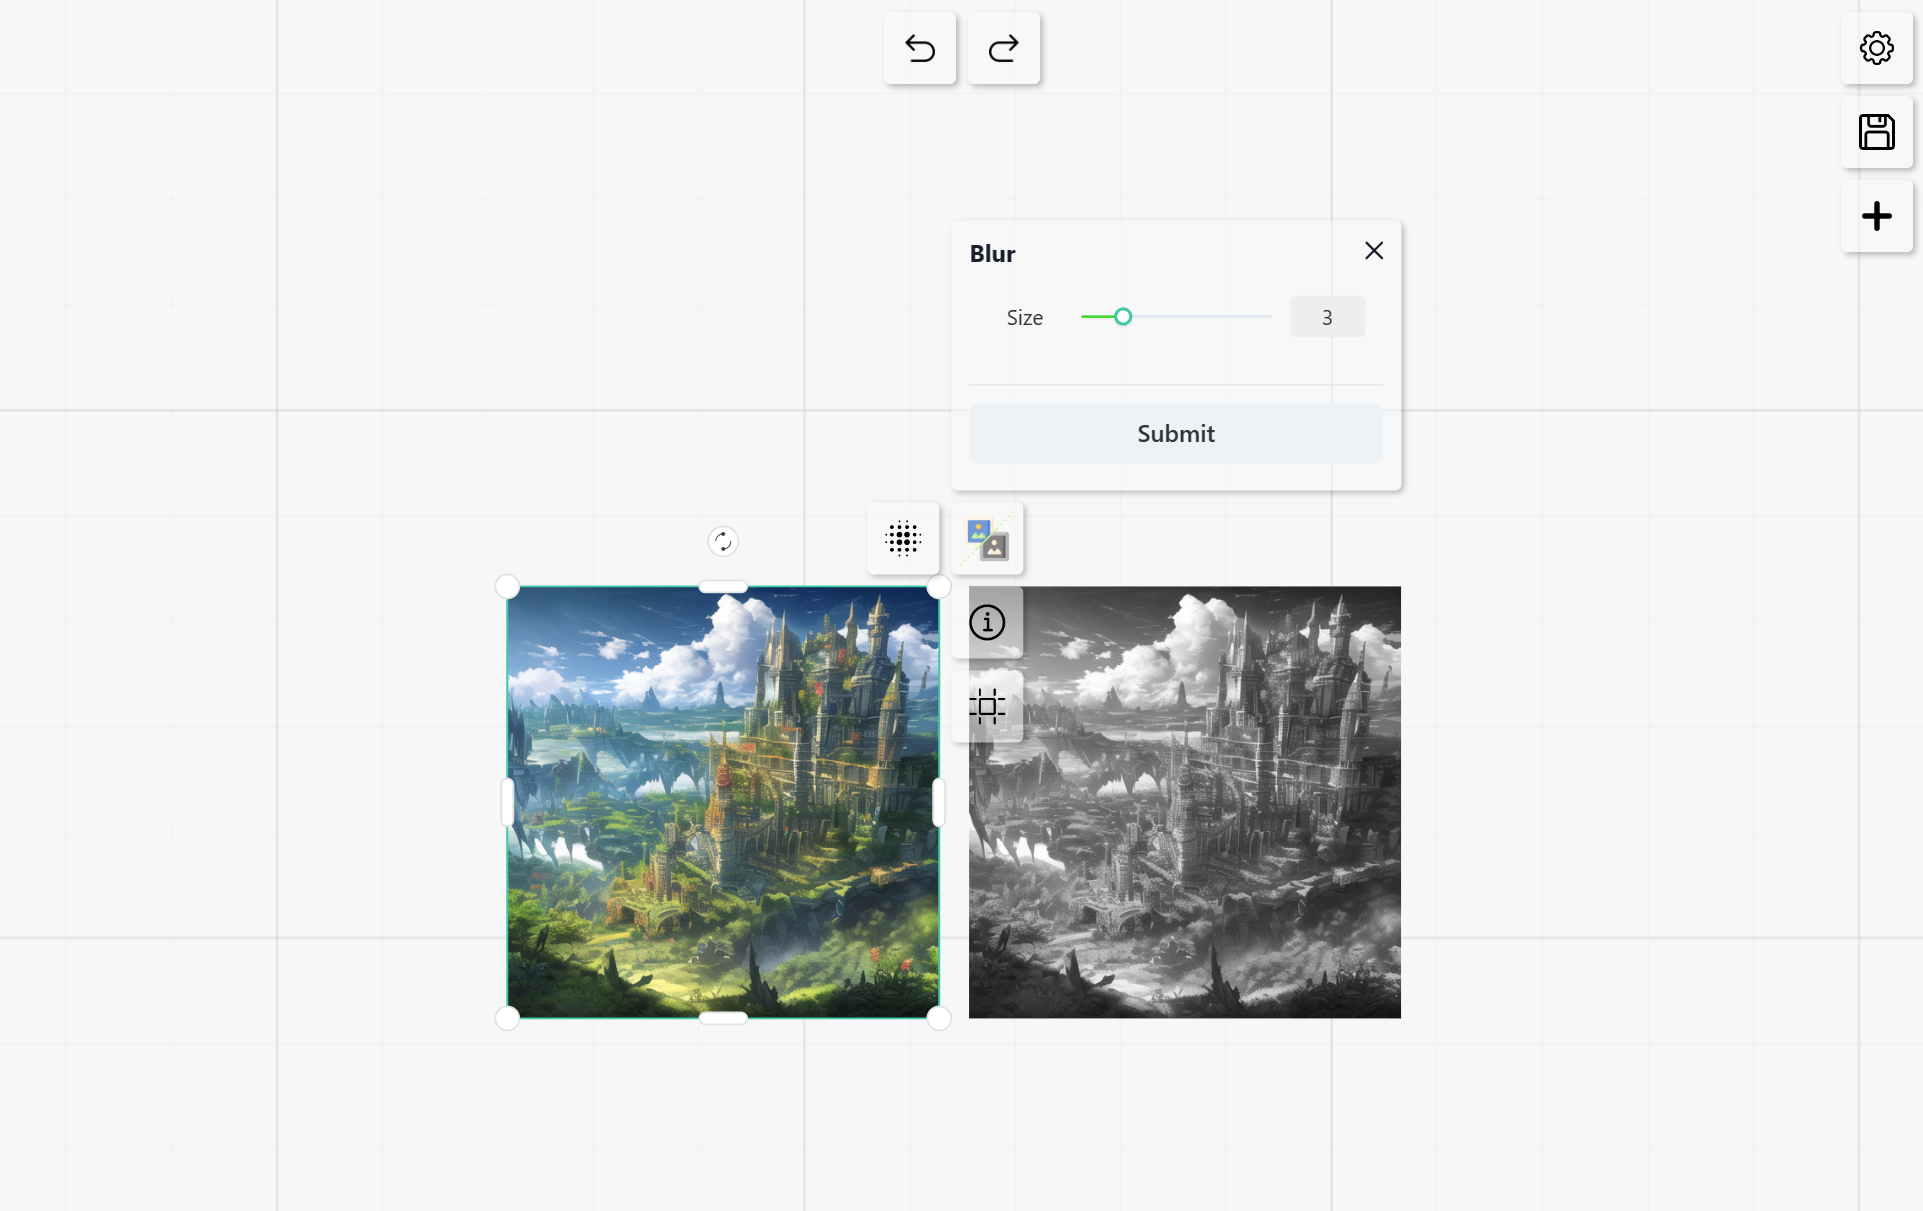
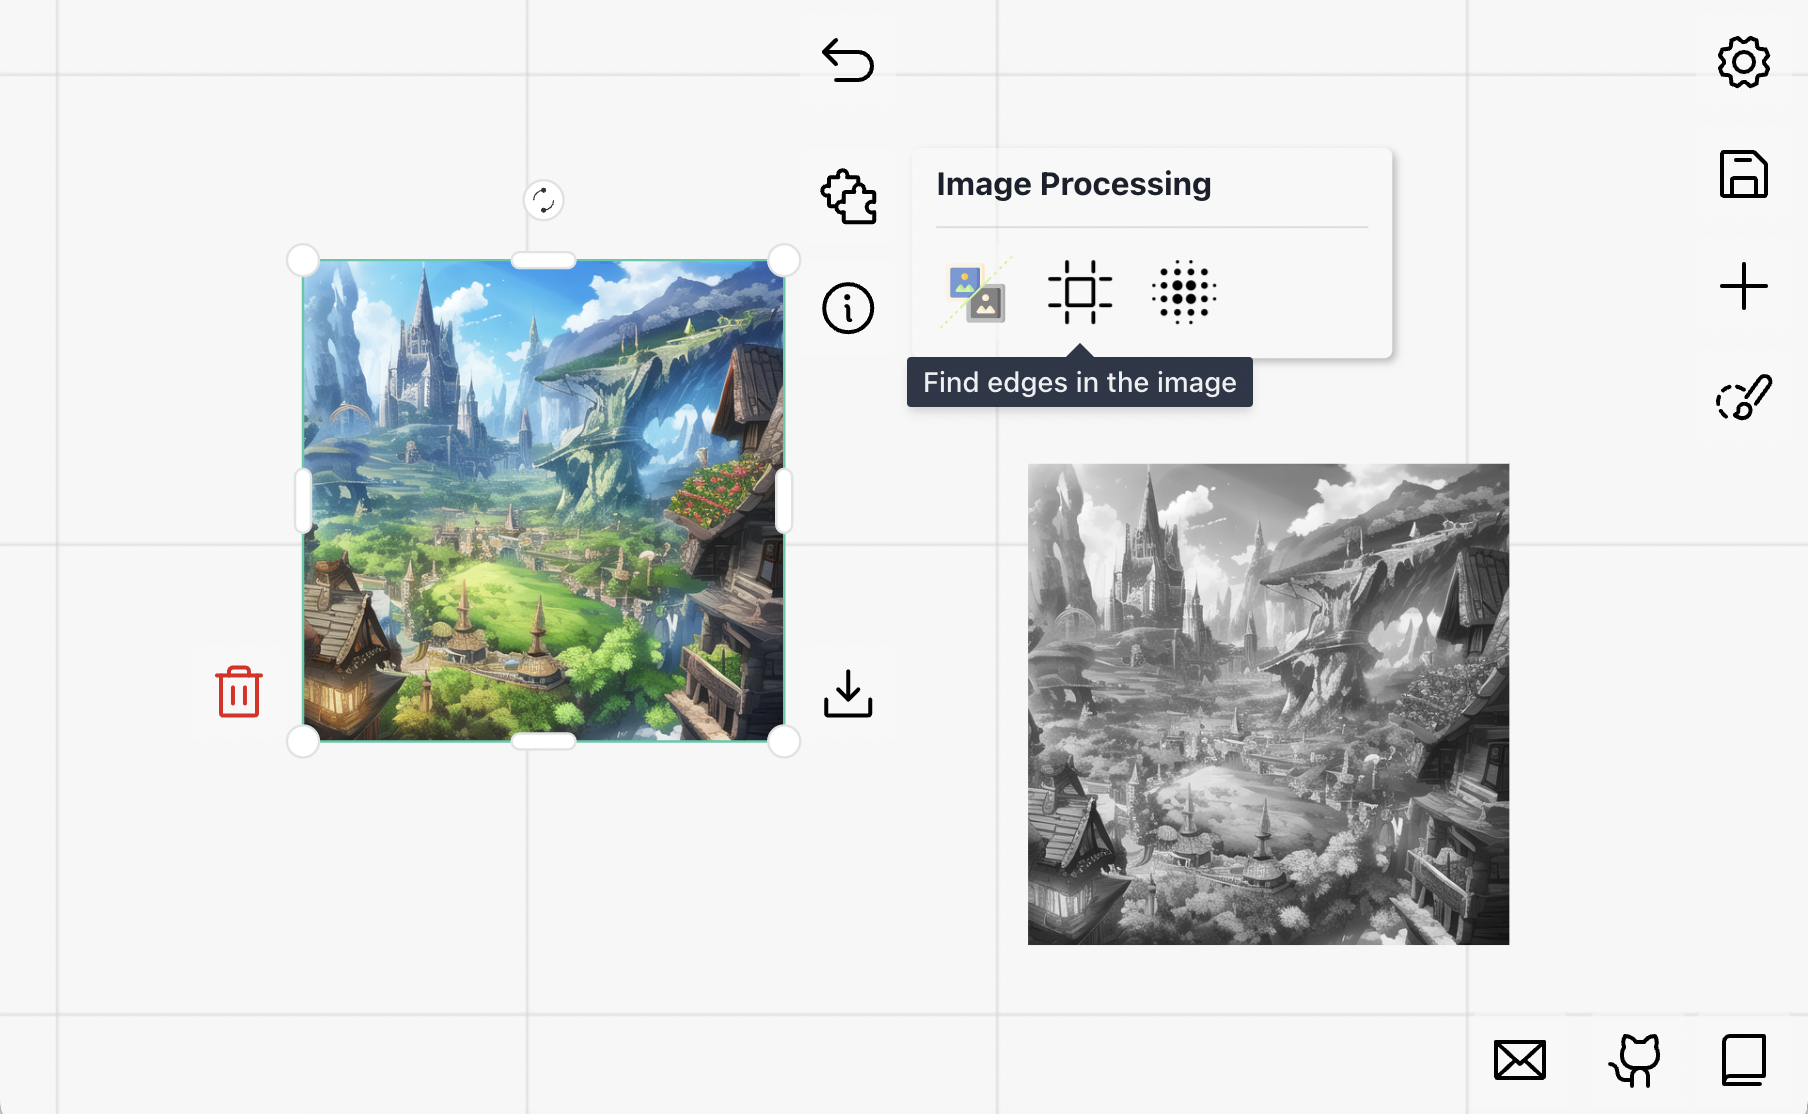
✅Introduced `advanced` to `image_processing`
Which utilized `IPluginGroup`

diff --git a/examples/image_processing/advanced.py b/examples/image_processing/advanced.py
@@ -1,0 +1,91 @@
+from PIL import Image
+from PIL import ImageFilter
+
+from cfdraw import *
+
+
+class GrayScalePlugin(IFieldsPlugin):
+    @property
+    def settings(self) -> IPluginSettings:
+        return IPluginSettings(
+            w=200,
+            h=100,
+            src="https://ailab-huawei-cdn.nolibox.com/upload/images/2f236a9291a04cadb9a0d8705f5537c3.png",
+            tooltip="Convert the image to grayscale",
+            pluginInfo=IFieldsPluginInfo(header="To Gray", definitions={}),
+            p="6px",
+            expandProps=IChakra(bg="green.50"),
+        )
+
+    async def process(self, data: ISocketRequest) -> Image.Image:
+        image = await self.load_image(data.nodeData.src)
+        return image.convert("L")
+
+
+class EdgePlugin(IFieldsPlugin):
+    @property
+    def settings(self) -> IPluginSettings:
+        return IPluginSettings(
+            w=200,
+            h=100,
+            src="https://ailab-huawei-cdn.nolibox.com/upload/images/37a7936897494bd9ae96de5912210841.png",
+            tooltip="Find edges in the image",
+            pluginInfo=IFieldsPluginInfo(definitions={}),
+        )
+
+    async def process(self, data: ISocketRequest) -> Image.Image:
+        image = await self.load_image(data.nodeData.src)
+        return image.convert("L").filter(ImageFilter.FIND_EDGES)
+
+
+class GaussianBlurPlugin(IFieldsPlugin):
+    @property
+    def settings(self) -> IPluginSettings:
+        return IPluginSettings(
+            w=300,
+            h=180,
+            src="https://ailab-huawei-cdn.nolibox.com/upload/images/c60613dcaf514975a211a75535a5b81b.png",
+            tooltip="Apply Gaussian Blur to the image",
+            pluginInfo=IFieldsPluginInfo(
+                definitions=dict(
+                    size=INumberField(
+                        default=3,
+                        min=1,
+                        max=10,
+                        step=1,
+                        isInt=True,
+                        label="Size",
+                    )
+                ),
+                closeOnSubmit=False,
+            ),
+        )
+
+    async def process(self, data: ISocketRequest) -> Image.Image:
+        image = await self.load_image(data.nodeData.src)
+        return image.filter(ImageFilter.GaussianBlur(data.extraData["size"]))
+
+
+class ImageProcessingGroup(IPluginGroup):
+    @property
+    def settings(self) -> IPluginSettings:
+        return IPluginSettings(
+            w=240,
+            h=105,
+            pivot=PivotType.RT,
+            nodeConstraint=NodeConstraints.IMAGE,
+            follow=True,
+            tooltip="Image Processing",
+            pluginInfo=IPluginGroupInfo(
+                header="Image Processing",
+                plugins=dict(
+                    gray_scale=GrayScalePlugin,
+                    edge=EdgePlugin,
+                    blur=GaussianBlurPlugin,
+                ),
+            ),
+        )
+
+
+register_plugin("image_processing")(ImageProcessingGroup)
+app = App()

diff --git a/examples/image_processing/README.md b/examples/image_processing/README.md
@@ -2,6 +2,8 @@
 
 ![Image Processing](../assets/image-processing.png)
 
+> The screenshot groups the plugins into an `Image Processing` plugin group, which requires to launch the `advanced.py`. See [Run](#Run) for more details.
+
 This example implements three common image processing plugins with `carefree-drawboard` 🎨:
 1. Any (colourful) image -> Gray scale image.
 2. Extract edges of an image.
@@ -19,6 +21,12 @@ cfdraw run
 
 ```bash
 cfdraw run --module {name}
+```
+
+For example, we provide an `advanced.py`, which utilized `IPluginGroup` to group the plugins together. To launch it, run:
+
+```bash
+cfdraw run --module advanced
 ```
 
 ## Details
